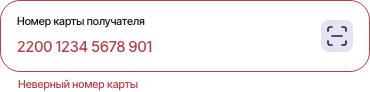
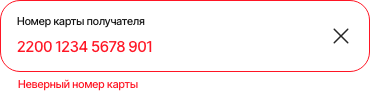
Show recipient clear action in authorized transfers

diff --git a/src/authorized-transfer.js b/src/authorized-transfer.js
@@ -143,8 +143,6 @@ export function createAuthorizedTransfer({ cards, card, recipient, transferKind,
     };
     sender.onblur=()=>{if(sender.value&&!validTransferCard(sender.value)){senderError.textContent='Неверный номер карты';sender.setAttribute('aria-invalid','true');}syncSenderState();};
     screen.querySelector('.destination-section').insertAdjacentHTML('afterbegin','<h2>Куда перевести</h2>');
-    input.closest('.destination-field').insertAdjacentHTML('beforeend','<button type="button" class="recipient-card-clear" aria-label="Очистить номер карты получателя" hidden><img src="./assets/images/sender-card-clear.svg" alt=""></button>');
-    screen.querySelector('.recipient-card-clear').onclick=()=>{input.value='';input.oninput();input.focus();};
     for(const [field,kind] of [[sender,'sender'],[input,'recipient']]) {
       const suggestion=document.createElement('div');suggestion.className='demo-card-suggestion';suggestion.hidden=true;
       const getChoices=()=>kind==='sender'?[{number:figmaDemoCards.sender,label:'Пример для демо / Россия, RUB',name:'Заполнить демо-карту отправителя'},{number:foreignDemoNumber,label:'Пример для демо / Иностранная карта, USD',name:'Заполнить иностранную демо-карту отправителя'}]:[{number:international?figmaDemoCards.internationalRecipient:figmaDemoCards.recipient,label:international?'Пример для демо / Узбекистан, UZS':'Пример для демо',name:'Заполнить демо-карту получателя'}];
@@ -176,6 +174,10 @@ export function createAuthorizedTransfer({ cards, card, recipient, transferKind,
 
 
   }
+
+  input.closest('.destination-field').insertAdjacentHTML('beforeend','<button type="button" class="recipient-card-clear" aria-label="Очистить номер карты получателя" hidden><img src="./assets/images/sender-card-clear.svg" alt=""></button>');
+  const clearRecipient=screen.querySelector('.recipient-card-clear');
+  clearRecipient.onclick=()=>{savedRecipient=null;input.readOnly=false;input.value='';input.oninput();input.focus();};
 
   const bankStatus=screen.querySelector('.recipient-bank');
   const availabilityStatus=screen.querySelector('.card-availability');
@@ -338,10 +340,8 @@ export function createAuthorizedTransfer({ cards, card, recipient, transferKind,
       button.querySelector('.source-radio').src='./assets/images/'+(selected?'card-radio-selected.svg':'card-radio-empty.svg');
     });
     input.closest('.destination-field').classList.toggle('is-filled',!!input.value);
-    if(inlineGuestSource){
-      screen.querySelector('.recipient-card-clear').hidden=!input.value;
-      input.closest('.destination-field').querySelector('.scan-card').hidden=!!input.value;
-    }
+    clearRecipient.hidden=!input.value;
+    input.closest('.destination-field').querySelector('.scan-card').hidden=!!input.value;
 
     amountInput.closest('.destination-field').classList.toggle('is-filled',!!amountInput.value);
     screen.querySelector('.transfer-review')?.remove();

diff --git a/src/styles.css b/src/styles.css
@@ -1363,3 +1363,8 @@ body:has(.guest-direction-sheet[open]) { overflow:hidden; }
 .card-transfer .add-card-dialog input[aria-invalid=true] { border-color:#ff1524; }
 .card-transfer .destination-field input[aria-invalid=true],
 .card-transfer .add-card-dialog input[aria-invalid=true] { color:#ff1524; }
+
+.card-transfer .destination-section .recipient-card-clear { position:absolute; right:16px; top:50%; transform:translateY(-50%); width:24px; height:24px; padding:0; background:transparent; }
+.card-transfer .recipient-card-clear img { display:block; width:24px; height:24px; }
+.card-transfer .recipient-card-clear[hidden],
+.card-transfer .destination-section .scan-card[hidden] { display:none; }
